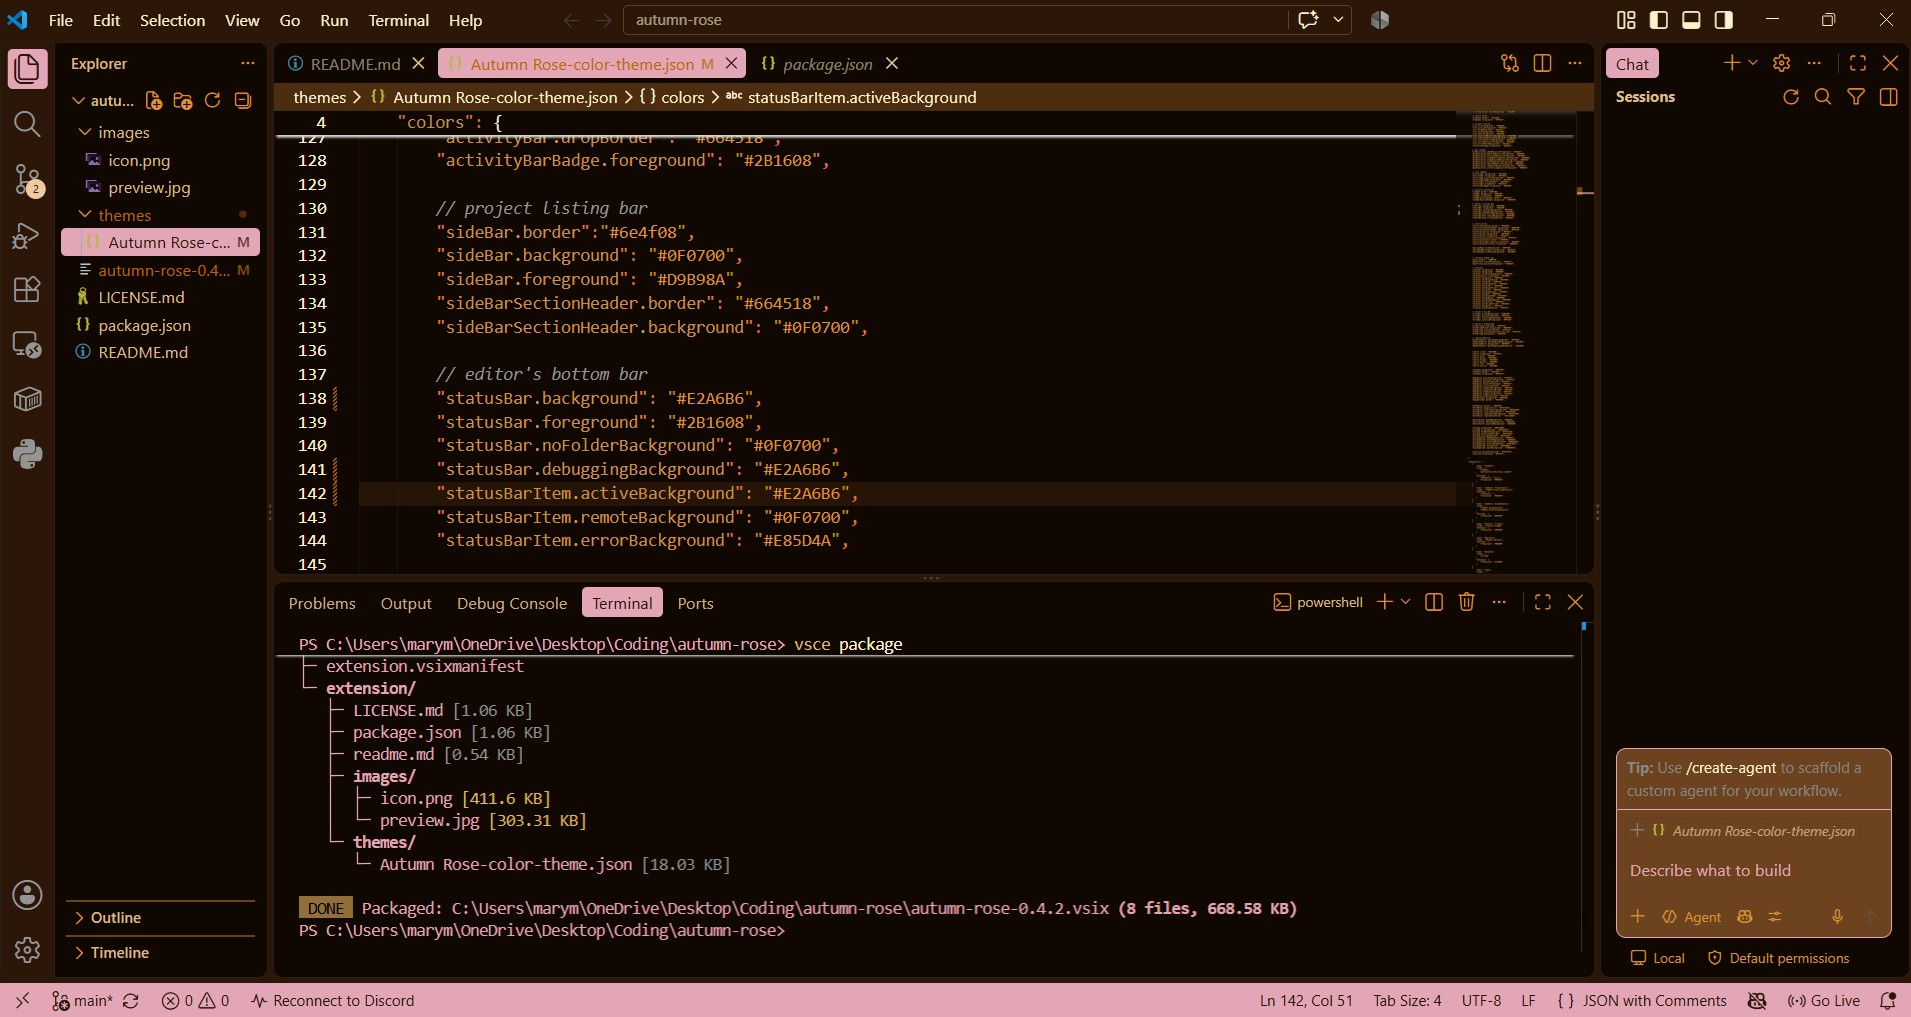
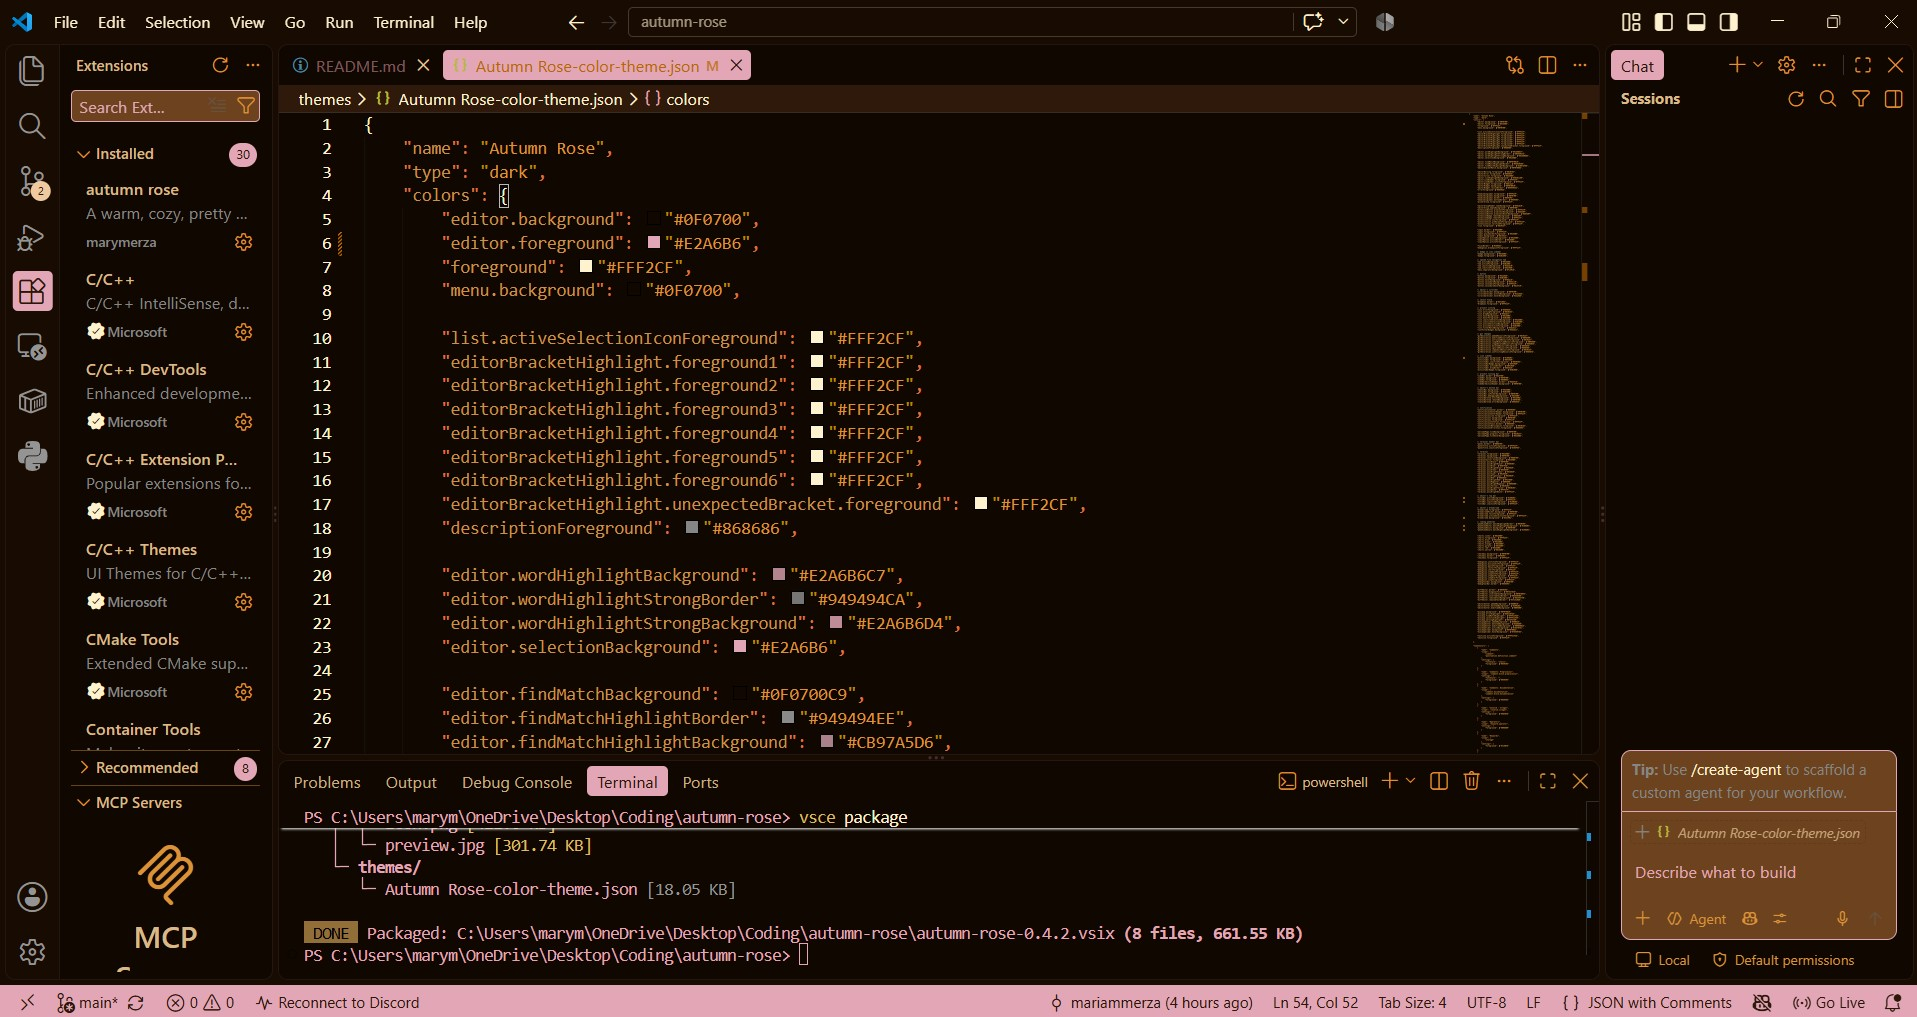
colour modifications

diff --git a/README.md b/README.md
@@ -13,3 +13,5 @@ This theme uses shades of pink, brown and beige ༄˖°.🍂.ೃ࿔*:･
 
 ### Issues
 I'll be working on/maintaining this theme in my free time so feel free to submit any issues or suggestions to my [Github](https://github.com/mary-merza/autumn-rose).
+
+Currently working on editor coding colours (comments, strings, etc.) and sidebar icon designs.
